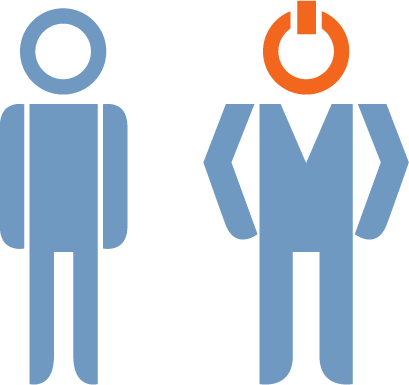
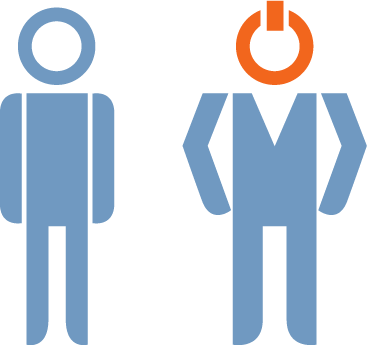
academy page responsiveness and tweaking illustrations

diff --git a/academy/index.html b/academy/index.html
@@ -5,6 +5,8 @@ title: Academy | The Hackerati
 
 {% include desktop-header.html %}
 
+<div class="academy-page">
+
 <div class="b-page-image academy"></div>
 <div class="section section1" id="top-section">
   <div class="content-container section1-content-container">
@@ -42,8 +44,9 @@ title: Academy | The Hackerati
     <div class="text-block block-left">
       <div id="audience-text">
         <p>The Hackerati Academy was conceived and created both for the training of 
-        entry-level employees and for the continuous education of experienced employees. 
-        General prerequisites for all courses include a solid understanding of fundamental 
+        entry-level employees and for the continuous education of experienced employees.</p>
+
+        <p>General prerequisites for all courses include a solid understanding of fundamental 
         engineering skills, mastery of at least one programming language (we don't care 
         which one), propensity for solving hard problems, and general fearlessness. 
         </p>
@@ -77,4 +80,7 @@ title: Academy | The Hackerati
     </div>
   </div>
 </div>
+
+</div>
+
 {% include footer.html %}

diff --git a/css/main.css b/css/main.css
@@ -148,7 +148,7 @@ li {
 }
 
 .section1-content-container {
-    width: 75%;
+    width: 67%;
     margin: 0 auto;
     position: relative;
     padding: 2%;
@@ -1569,7 +1569,7 @@ a#google-maps-wrapper{
 }
 
 .generic-content{
-  width: 78%;
+  width: 67%;
   position:relative;
   margin-left:auto;
   margin-right:auto;
@@ -1610,7 +1610,7 @@ a#google-maps-wrapper{
     float: left;
     top: 0;
     height: 100%;
-    width: 35%;
+    width: 47%;
 }
 .block-right img {
     height:auto;
@@ -1621,12 +1621,12 @@ a#google-maps-wrapper{
     margin-top:auto;
     margin-bottom:auto;
     display: inline-block;
-    padding-right: 7%;
+    padding-right: 3%;
     top: 0;
     left: 0;
     float:left;
     height: 100%;
-    width: 55%;
+    width: 49%;
 }
 .block-left img {
     height:auto;
@@ -1733,6 +1733,10 @@ a#google-maps-wrapper{
 }
 #academy-focus{
   margin-top: 15%;
+}
+
+.academy-page .block-right img {
+    width: 95%;
 }
 
 /******** CAREERS PAGE *******/

diff --git a/css/media-queries.css b/css/media-queries.css
@@ -7,16 +7,20 @@
 
   /********* GENERAL *********/
   .wrapper-splash { width: 830px; padding: 20px; }
-  .section1-content-container { width: 57.5em;}
+  .section1-content-container { width: 793.265625px;}
   .section2 .content-container { width: 77.2em;}
   .section3 .content-container { width: 77.2em;}
   .section1 p { font: 1.3em/100% 'monacoregular';}
   .section1 h3 { font: 1.8em/100% 'monacoregular';}
   .section3 .content-container { width: 77.2em;  }
-  .generic-content { width: 57.5em; }
+  .generic-content { width: 793.265625px; }
 
   /********** HEADER **********/
   .header-section > .content-container { width: 77.7em;}
+
+
+  /****** ACADEMY PAGE *******/
+  .academy-page .block-right img { width: auto; }
 
   /****** CAREERS PAGE *******/
   .testimonial-copy { width: 44%;}
